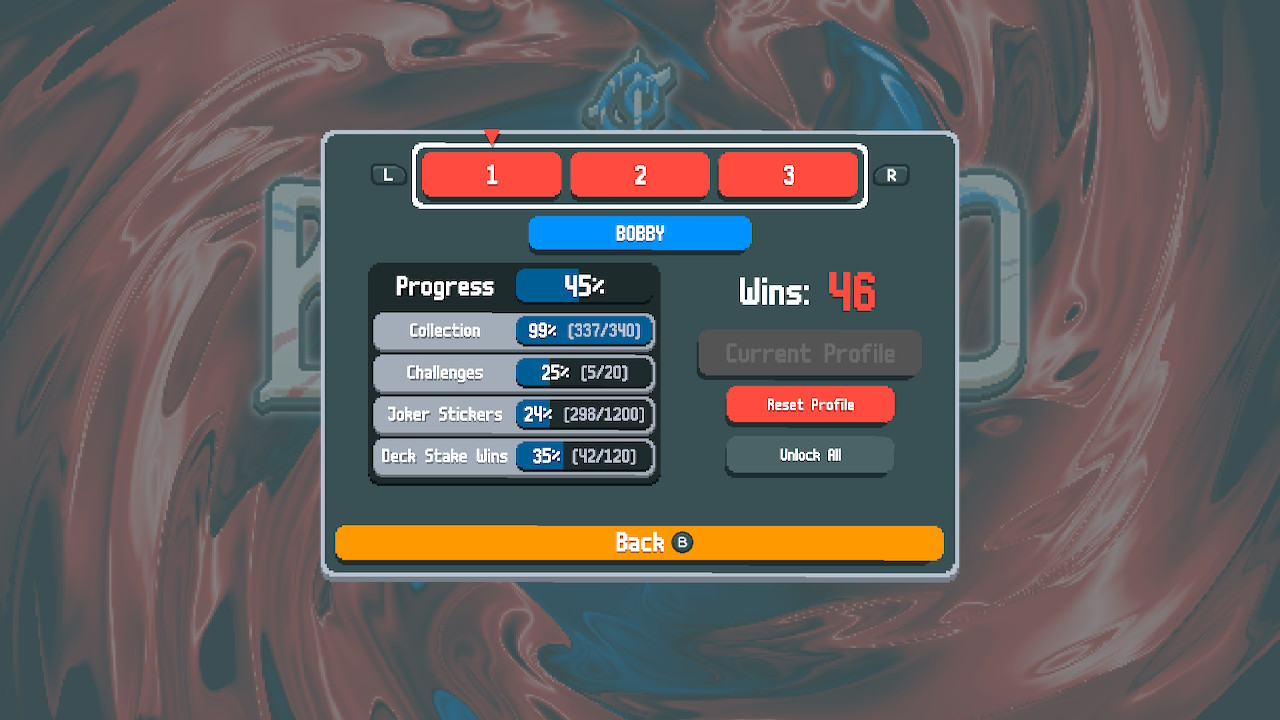
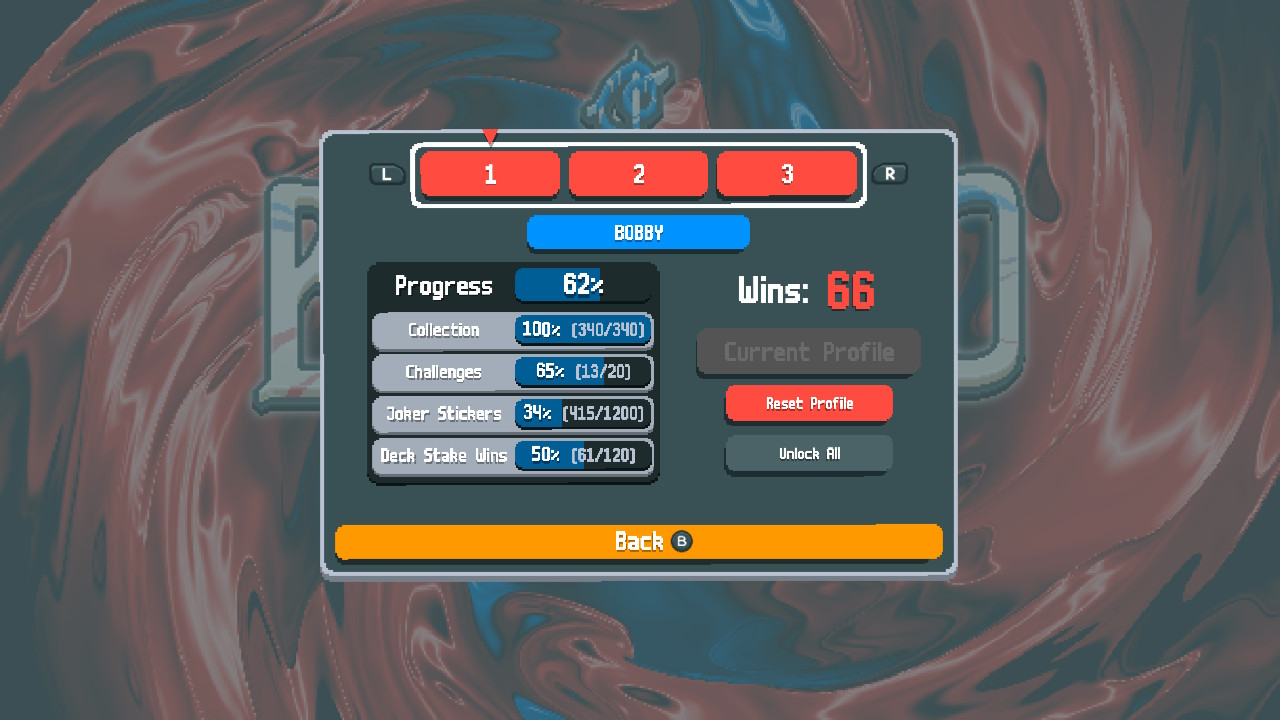
Update Balatro progress

Changed region(s): [[0.0, 0.0, 1.0, 1.0], [0.5625, 0.5194, 0.7188, 0.6722], [0.5625, 0.3667, 0.6875, 0.4583]]

diff --git a/2021/06/25/game-progress.html b/2021/06/25/game-progress.html
@@ -139,11 +139,11 @@
                         <td></td>
                         <td></td>
                         <td>
-                            <progress max="100" value="45" title="45%">
-                                45%
+                            <progress max="100" value="62" title="62%">
+                                62%
                             </progress>
-                            Wins: 46, Collection: 337/340, Challenges: 5/20,
-                            Joker Stickers: 298/1200, Deck Stake Wins: 42/120
+                            Wins: 66, Collection: 340/340, Challenges: 13/20,
+                            Joker Stickers: 415/1200, Deck Stake Wins: 61/120
                         </td>
                         <td>
                             <a href="/images/progress/balatro.jpg"
